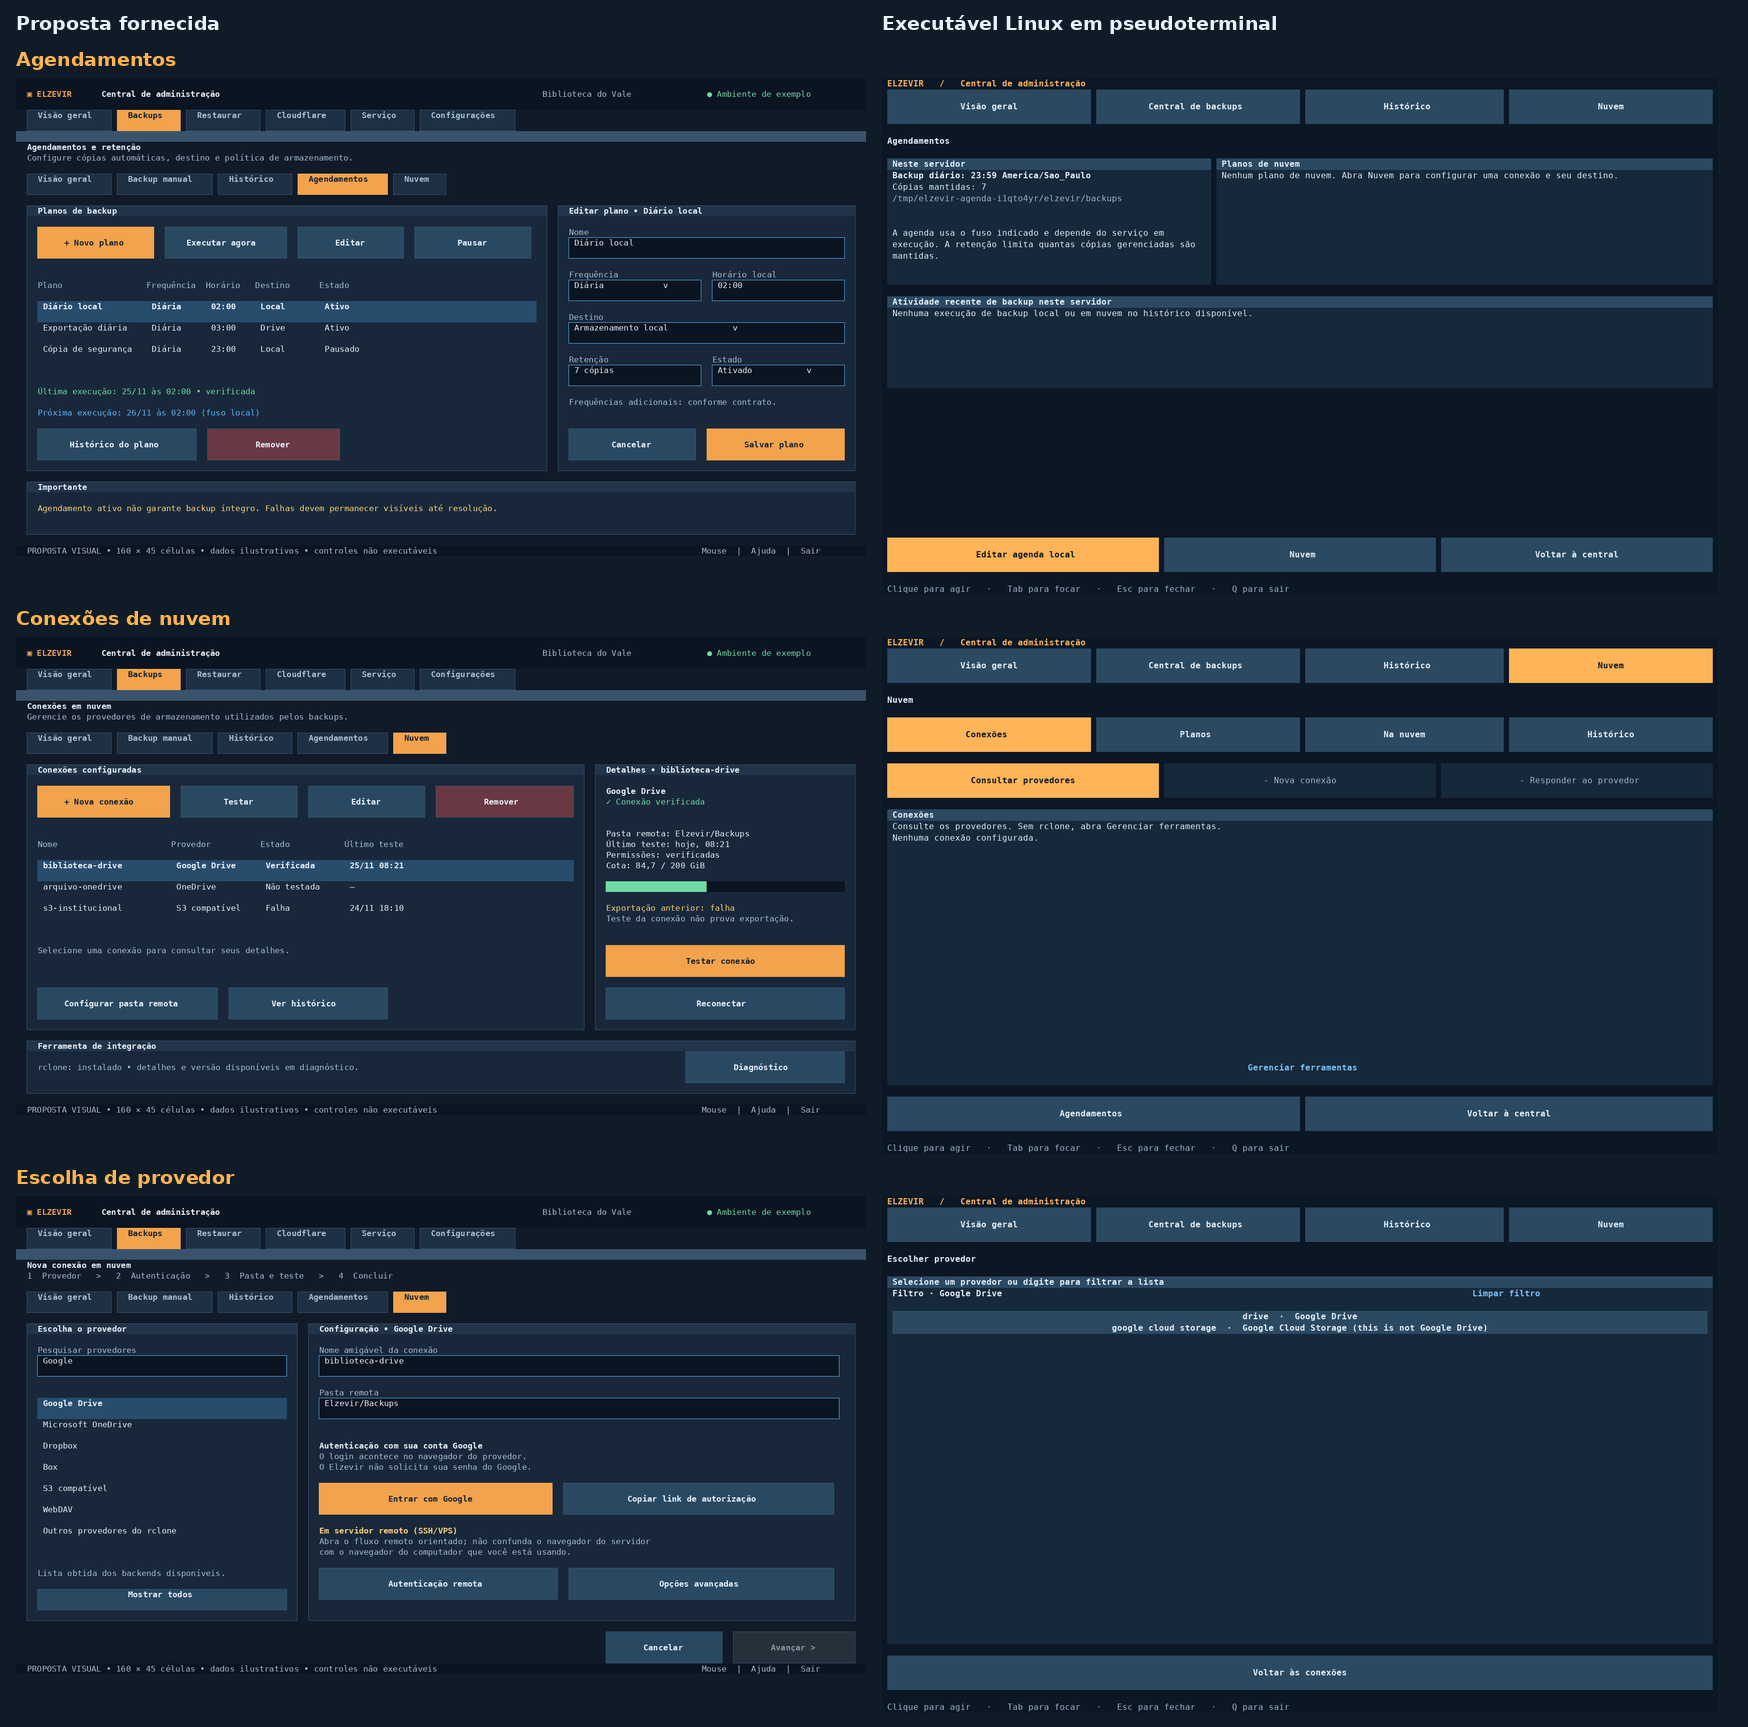
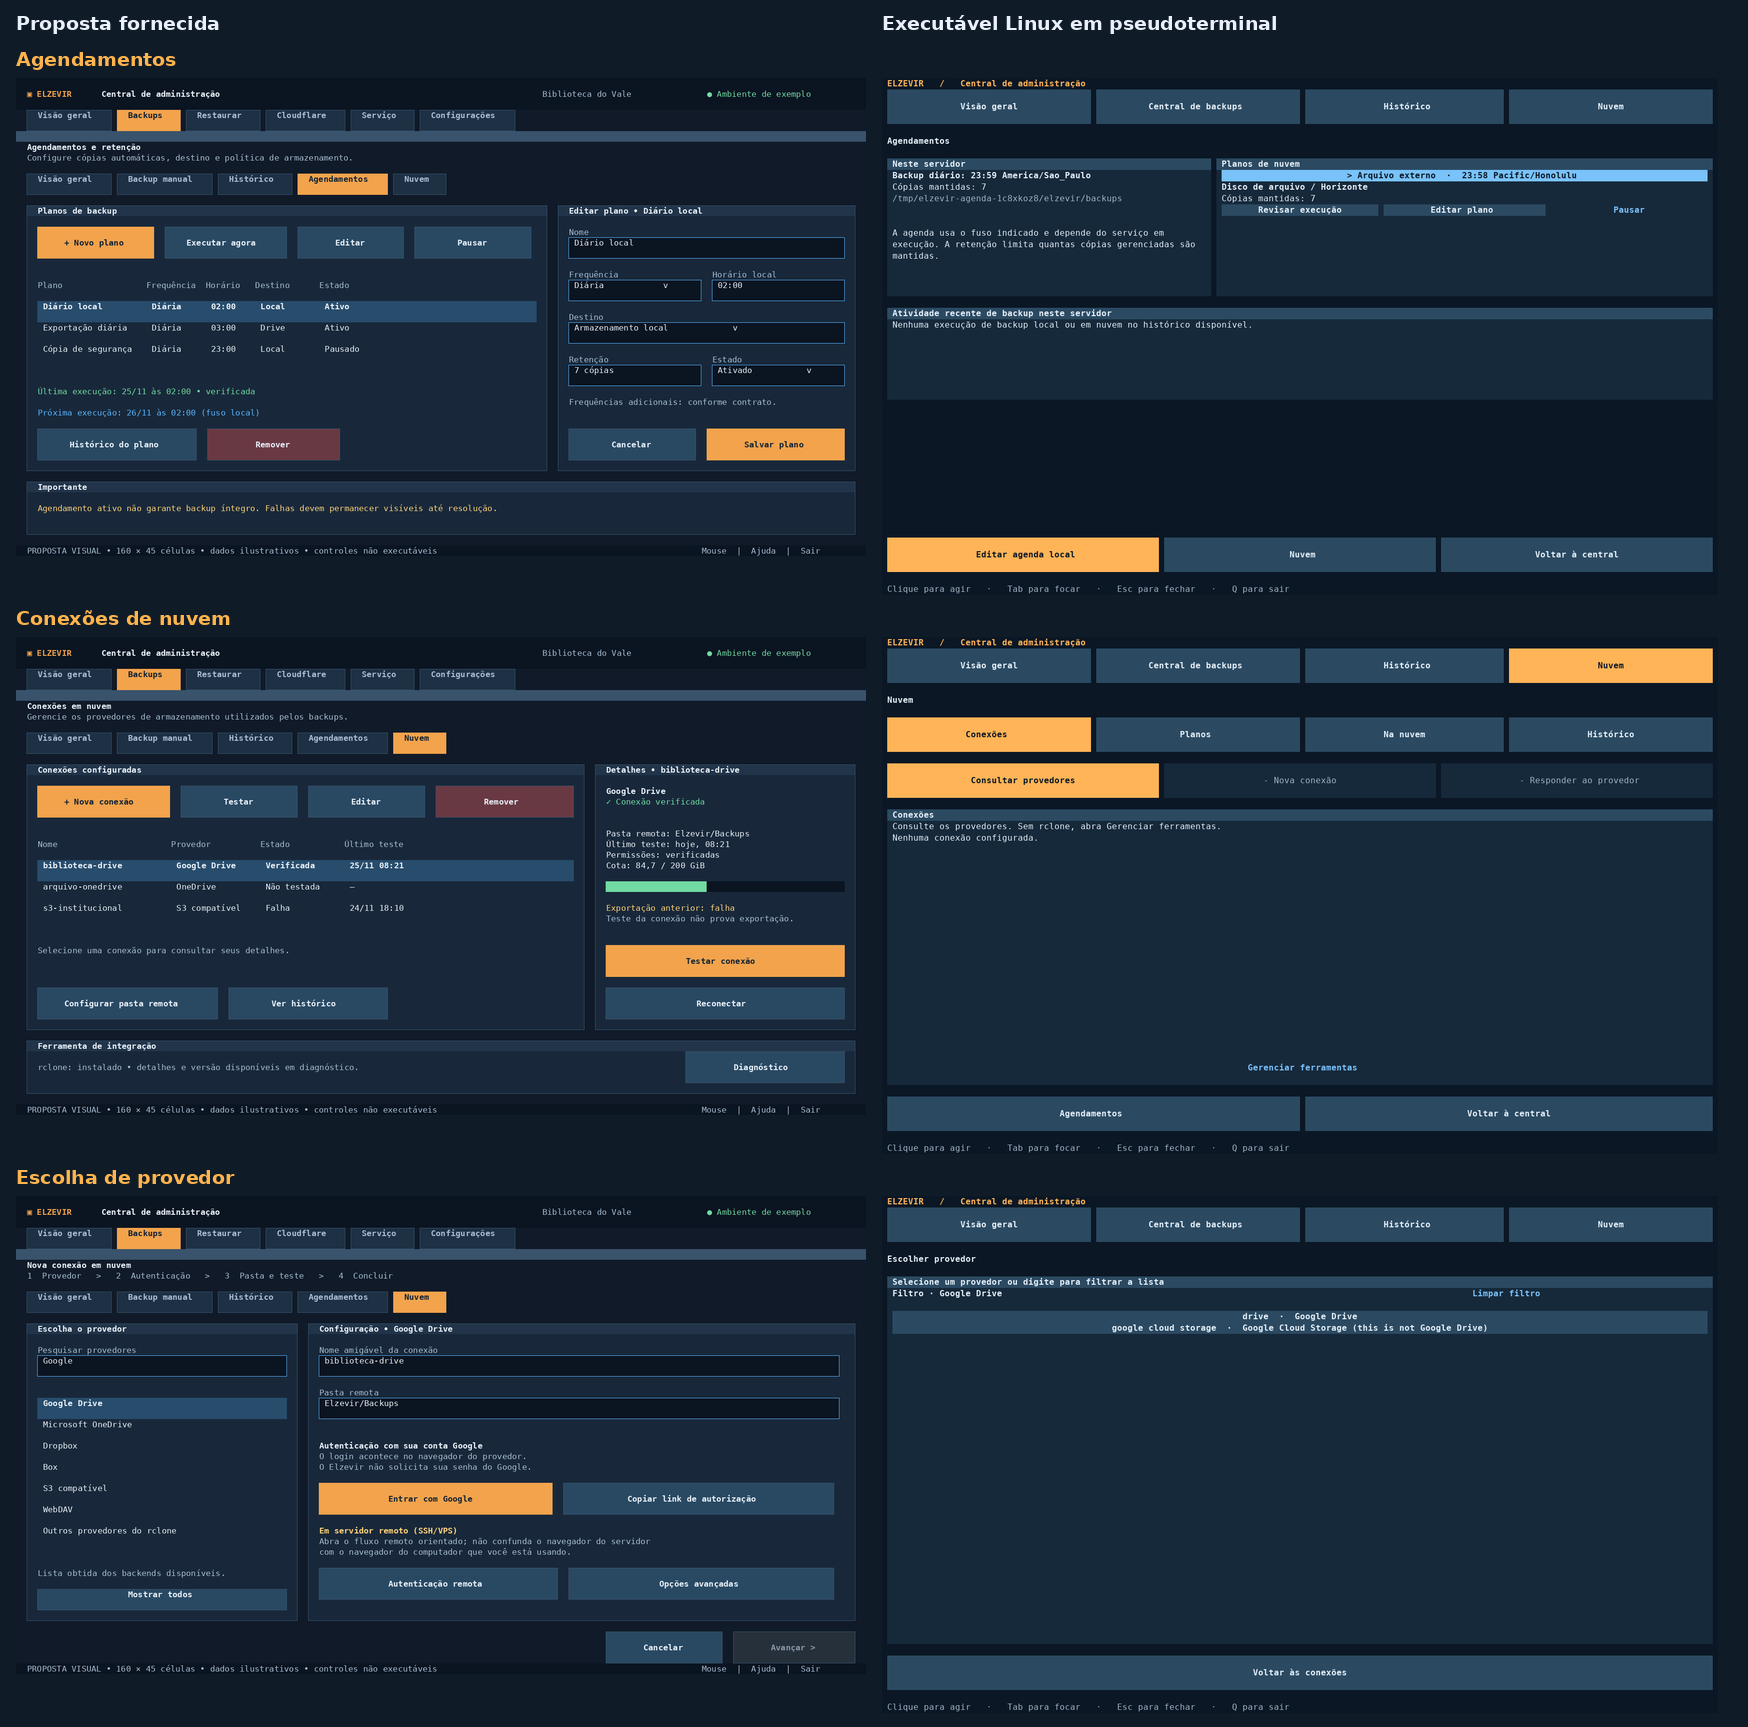
test(painel): comprova suspensão, retomada e recusa de edição antiga

Changed region(s): [[0.4943, 0.1534, 0.9886, 0.1841], [0.6796, 0.0921, 0.9886, 0.1228]]

diff --git a/tools/panel/capture_schedules.py b/tools/panel/capture_schedules.py
@@ -43,6 +43,9 @@ def exercise_existing_connection(program, root, data, config, cli, term, output)
     term.click("Arquivo externo")
     term.wait_for("Disco de arquivo / Horizonte")
     capture(term, output, "plano-selecionado")
+    term.size(80, 24)
+    term.wait_for("Editar plano")
+    capture(term, output, "plano-selecionado-80x24")
     term.click("Pausar")
     term.wait_for("só haverá execução manual")
     term.wait_for("Nome do plano")
@@ -58,6 +61,8 @@ def exercise_existing_connection(program, root, data, config, cli, term, output)
     term.click("Fuso IANA")
     term.send(b"\x7f" * 3 + b"Pacific/Honolulu")
     term.wait_for("Pacific/Honolulu")
+    capture(term, output, "plano-edicao-80x24")
+    term.size(160, 45)
     capture(term, output, "plano-edicao")
     term.click("Confirmar", last=True)
     wait_for(lambda: plans()[0]["daily"] == "23:59 Pacific/Honolulu", "daily schedule resumed")
@@ -184,9 +189,12 @@ def exercise(binary, output, root, baseline, catalogue_program):
             term.send(b"Google Drive")
             term.wait_for("drive  ·  Google Drive")
             capture(term, output, "provedor-filtro")
+            term.size(80, 24)
+            capture(term, output, "provedor-filtro-80x24")
             term.click("drive  ·  Google Drive")
             term.wait_for("Configurar uma conexão")
             term.wait_for("drive")
+            term.size(160, 45)
             capture(term, output, "provedor-revisao")
             term.click("Cancelar", last=True)
             assert len(state()["jobs"]) == jobs_before

diff --git a/docs/evidencias/marco-c/README.md b/docs/evidencias/marco-c/README.md
@@ -1,11 +1,11 @@
 # Marco C — agendas e conexões de nuvem
 
-Primeiro incremento da proposta consolidada. O PR #275 integrou o Marco B na main em `0b509cd9`. A branch de trabalho é `codex/painel-marco-c`. O commit do estudo é `9cfb0625`, a central de agendas e a navegação da nuvem estão em `0bf0c92d`, a correção do catálogo em `47285011` e o ajuste da leitura em terminal compacto em `71b0e0b9`. [Estudo e matriz de prioridades](../../evolucao-painel-operacional.md) · [Contrato do painel](../../specs/operacao/painel-operacoes.md) · [Contrato da nuvem](../../specs/operacao/nuvem.md)
+Primeiro incremento da proposta consolidada. O PR #275 integrou o Marco B na main em `0b509cd9`. A branch de trabalho é `codex/painel-marco-c`. O commit do estudo é `9cfb0625`, a central de agendas e a navegação da nuvem estão em `0bf0c92d`, a correção do catálogo em `47285011` o ajuste da leitura em terminal compacto em `71b0e0b9` e a edição protegida da agenda de um plano em `d4120873`. [Estudo e matriz de prioridades](../../evolucao-painel-operacional.md) · [Contrato do painel](../../specs/operacao/painel-operacoes.md) · [Contrato da nuvem](../../specs/operacao/nuvem.md)
 
 ## O que o operador consegue fazer
 
 - Abrir **Agendamentos** para consultar a agenda local e os planos externos. Na política local, conferir destino, quantidade, horário e fuso. Em tela larga, a atividade recente agrupa os recibos de backup do servidor. A edição parte da política observada. Se a observação faltar ou mudar antes de confirmar, o painel solicita nova leitura.
-- Selecionar um plano e revisar o destino antes de executar pelo worker existente. A seleção sobrevive à reordenação da lista. Mudar a conexão ou a pasta invalida a seleção. As consultas e os cancelamentos deixam a fila intacta.
+- Selecionar um plano e revisar o destino antes de executar, editar retenção ou pausar a agenda. Para reativá-la, escolher um novo horário e fuso. A confirmação mostra a conexão e a pasta, que permanecem vinculadas ao plano. A seleção sobrevive à reordenação da lista. Mudar a conexão ou a pasta invalida a seleção. As consultas e os cancelamentos deixam a fila intacta.
 - Navegar por Conexões, Planos, Na nuvem e Histórico usando clique ou Tab/Enter. Consultar provedores, filtrar o catálogo por nome ou descrição, abrir a configuração com o tipo preenchido, responder à pergunta do provedor e revisar operações. O assistente preserva as validações de sessão, opções privadas do rclone e o canal administrativo existente.
 - Ler a falha de descoberta no histórico. Ações que dependem de serviço disponível têm proteção também no teclado. As descrições longas do painel de nuvem quebram em linhas e o paginador usa a quantidade de linhas efetivamente desenhadas.
 
@@ -15,8 +15,9 @@ Primeiro incremento da proposta consolidada. O PR #275 integrou o Marco B na mai
 | --- | --- |
 | Marco B, antes da mudança | [Agendamentos abria um formulário](antes-agendamentos.png) · [Área anterior de nuvem](antes-nuvem.png) |
 | Consulta de agendas | [160×45](agendamentos-160x45.png) · [80×24](agendamentos-80x24.png). Política gravada pelo painel e relida pela CLI do servidor. |
+| Plano externo | [Plano selecionado em 160×45](plano-selecionado.png) · [80×24](plano-selecionado-80x24.png) · [Edição em tela larga](plano-edicao.png) · [Edição compacta](plano-edicao-80x24.png). A revisão mostra nome, retenção, horário e fuso. |
 | Central de nuvem | [160×45](nuvem-160x45.png) · [80×24](nuvem-80x24.png) · [Falha registrada ao consultar os provedores](nuvem-falha-consulta.png). A instalação de ensaio começa sem conexões. |
-| Nova conexão | [Busca no catálogo real em cache](provedor-filtro.png) · [Configuração com o provedor escolhido](provedor-revisao.png). As imagens mostram seleção e revisão. Nenhuma conta Google foi autenticada. |
+| Nova conexão | [Busca no catálogo real em cache](provedor-filtro.png) · [Busca compacta](provedor-filtro-80x24.png) · [Configuração com o provedor escolhido](provedor-revisao.png). As imagens mostram seleção e revisão. Nenhuma conta Google foi autenticada. |
 | Comparação com a intenção visual | [Propostas 05–07 ao lado das telas executáveis](comparacao.png). Em 80 colunas a agenda local fica acima da lista de planos. O catálogo tem filtro e foco por linha. |
 
 ## Operações exercitadas
@@ -25,6 +26,8 @@ Primeiro incremento da proposta consolidada. O PR #275 integrou o Marco B na mai
 2. **Falha do serviço e leitura de cache.** A consulta real do catálogo gerou um trabalho do servidor. O instalador oficial do rclone gerenciado também foi exercitado em instituição descartável. O recibo foi de falha e a ferramenta continuou indisponível em seu diretório protegido. Para exercitar separadamente o caso de uma instalação com catálogo prévio, o ensaio carregou apenas a saída pública de `rclone --config /dev/null config providers` no cache da instituição temporária. A pesquisa, o clique na linha do Drive e o cancelamento rodaram na TUI. A fila foi conferida antes e depois.
 3. **Rclone real em teste de integração.** No Linux, o teste opcional usa o executável de distribuição em `/usr/bin/rclone` e os mesmos métodos de descoberta, configuração, resposta e teste do worker. O catálogo de 46 provedores dessa versão inclui nomes como `google cloud storage`. O teste inicialmente falhou porque o Elzevir recusava a lista inteira. Com a correção, criou uma conexão privada do tipo alias com destino em um diretório descartável, respondeu à pergunta real sobre o destino, enviou e verificou o arquivo de teste e o removeu. Um arquivo preexistente no destino conservou nome e conteúdo. Outro teste de integração cobre envio, listagem, download, comparação de bytes e remoção condicionada ao digest. O binário de produção continua exigindo o registro e o hash do executável gerenciado.
 4. **Regressões A e B.** Os roteiros exercitaram criação de arquivo cifrado, cancelamento e redimensionamento com modal aberto, identidade do arquivo ao chegar outra cópia, exportação da chave com acesso privado, colisão sem sobrescrita, exportação com servidor parado e preparação do comando SCP. O teste por SSH entre dois computadores permanece pendente.
+
+5. **Agenda de um destino existente.** O roteiro criou um alias com o rclone real, confirmou que ele listava um arquivo preexistente e preparou o cadastro desse destino na instituição temporária. A criação do plano passou pela CLI e pelo worker. Na TUI, cancelar a pausa preservou o horário anterior. Confirmar retirou a agenda diária. Reativar gravou o novo horário e fuso no mesmo plano, conexão e pasta. Enquanto um novo formulário estava aberto, outro cliente alterou a retenção para 12. A TUI recusou salvar a revisão antiga e a CLI confirmou a retenção de 12. O arquivo preexistente manteve seu conteúdo.
 
 ## Reprodução
 
@@ -43,8 +46,12 @@ cargo xtask ci
 cargo deny check
 ```
 
+## Verificação do workspace
+
+O workspace na base do PR #275 passou pela suíte completa de 1.291 testes, incluindo os ensaios opcionais com rclone. A verificação de camadas, a geração dos artefatos, o limite de tamanho de arquivos, os desvios e as preferências do Koha integram `cargo xtask ci`. Formatação, Clippy e cargo-deny completam a validação do repositório.
+
 ## Limites da entrega
 
 A homologação de nuvem externa depende de rclone gerenciado funcional e de uma conta de ensaio autorizada. O cenário local não mede OAuth, renovação de token, latência do provedor, callback por SSH nem o navegador no computador da biblioteca. Windows nativo, WSL2, desktop gráfico e tarefas com funcionários permanecem na matriz de aceite.
 
-Ainda cabem em C a edição guiada de planos por conexão e destino, suspensão e retomada com revisão, associação da última tentativa ao plano e orientação de OAuth por ambiente. A previsão da próxima execução precisa considerar a data já reivindicada pelo agendador. As propostas de outras frequências, transferência por navegador e ensaio completo de restauração estão no estudo para decisão própria. O Marco D começa após a revisão de C.
+Ainda cabem em C a criação de plano a partir da conexão escolhida sem digitar IDs, a associação da última tentativa ao plano e a orientação de OAuth por ambiente. A edição, a suspensão e a retomada de um plano existente foram exercitadas nesta entrega. A previsão da próxima execução precisa considerar a data já reivindicada pelo agendador. As propostas de outras frequências, transferência por navegador e ensaio completo de restauração estão no estudo para decisão própria. O Marco D começa após a revisão de C.

diff --git a/docs/evolucao-painel-operacional.md b/docs/evolucao-painel-operacional.md
@@ -103,6 +103,7 @@ A oportunidade 04 já tem consulta antes da edição, observação de alteraçã
 | Consultar a agenda partindo da visão geral | 2 cliques, em Central de backups e Agendamentos | Nenhuma escrita. O operador lê horário, fuso, retenção e pasta antes de escolher editar. |
 | Alterar hora e fuso a partir da consulta | 4 cliques, para editar, focar a hora, focar o fuso e confirmar. Digitação dos novos valores | O valor observado por outro cliente corresponde ao preenchimento. Esc ou Cancelar preservam a política. |
 | Pesquisar e abrir configuração de provedor a partir das conexões | 2 cliques, em Nova conexão e na linha do resultado, com digitação opcional para filtrar | O formulário abre com o tipo escolhido. O teste usou catálogo público real em cache e cancelou antes da autorização. |
+| Pausar e reativar um plano existente | Do plano selecionado, 2 cliques para pausar e confirmar. Para reativar, 4 cliques com digitação de hora e fuso | A CLI confirmou a mesma identidade, conexão e pasta. Uma alteração concorrente de retenção também foi preservada depois de a TUI recusar a revisão antiga. |
 | Investigar falha de descoberta sem rclone gerenciado | Da página de conexões, 3 cliques, em Consultar provedores, Confirmar e Histórico da nuvem | O registro do worker distingue falha de conclusão. O teste comprovou o resultado pela CLI. |
 
-O estudo externo complementar consultou a ajuda distribuída com o rclone. `rclone authorize --help` descreve o uso de uma máquina com navegador para instalações sem ambiente gráfico. `rclone check --help` descreve verificação de origem e destino sem alteração dos arquivos. A comparação determina dois critérios para o próximo incremento: indicar em qual máquina concluir a autorização e mostrar separadamente autenticação, teste de escrita e verificação da cópia. As páginas oficiais de Cockpit, restic, GNOME Files e rclone retornaram HTTP 403 neste ambiente. As conclusões sobre interfaces visuais se apoiam na referência Nexus, no estudo de usabilidade, nas 36 imagens entregues e nas execuções do Elzevir.
+O estudo externo complementar consultou a ajuda distribuída com o rclone. `rclone authorize --help` descreve o uso de uma máquina com navegador para instalações sem ambiente gráfico. `rclone check --help` descreve verificação de origem e destino sem alteração dos arquivos. Para o próximo incremento, a tela precisa indicar em qual máquina concluir a autorização e distinguir autenticação, teste de escrita e verificação da cópia. As páginas oficiais de Cockpit, restic, GNOME Files e rclone retornaram HTTP 403 neste ambiente. As conclusões sobre interfaces visuais se apoiam na referência Nexus, no estudo de usabilidade, nas 36 imagens entregues e nas execuções do Elzevir.
